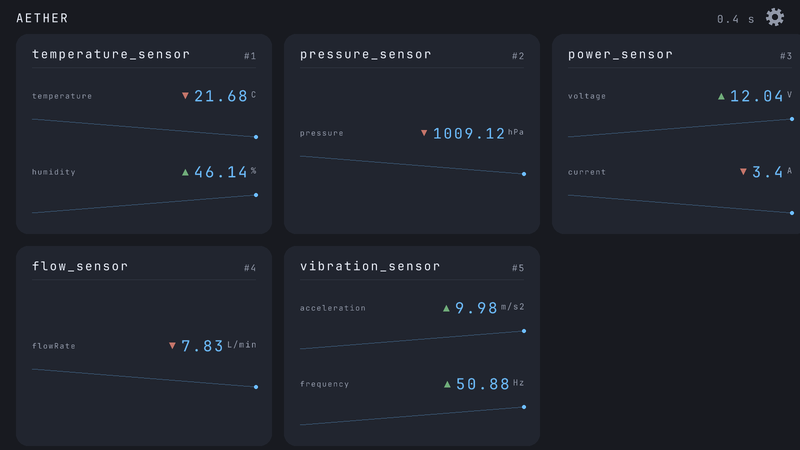
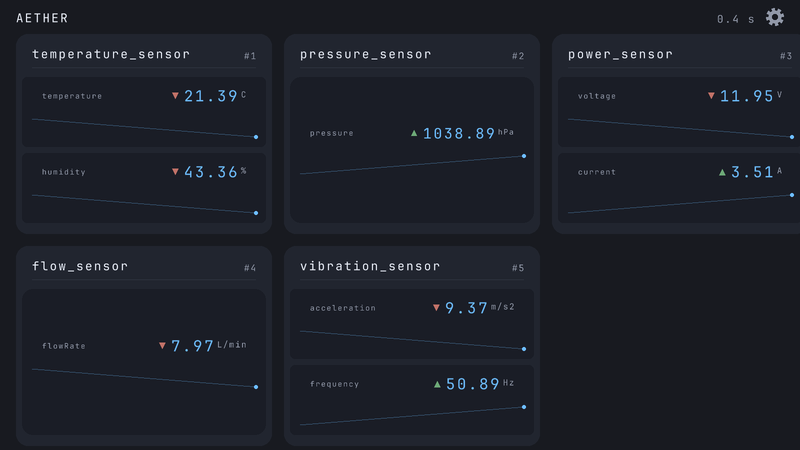
align README and demo media with current UI

diff --git a/README.md b/README.md
@@ -15,8 +15,9 @@ Aether is a small C application that simulates sensor readings and displays them
 
 - Load any number of sensors from a YAML config, each with an arbitrary
   list of named metrics carrying units (`temperature (C)`, `pressure (hPa)`, ...)
-- Adaptive card grid with sparklines, animated values, and up/down
-  change indicators
+- Adaptive card grid: each metric renders as a chip with its value,
+  sparkline, and up/down change indicator
+- Card detail view with large trend lines and min/avg/max stats per metric
 - Tabbed navigation: a tab holds as many cards as fit the window;
   overflow goes to numbered tabs (`1 2 ... N`), clickable and bound to
   `Alt/Cmd + 1..9`
@@ -24,7 +25,8 @@ Aether is a small C application that simulates sensor readings and displays them
   indicators at runtime
 - Fixed-slot task scheduler decoupled from data handling
 - Bounded per-sensor reading history (ring buffers)
-- Unit tests for configuration, history, scheduler, and sensor modules
+- Unit tests for configuration, history, scheduler, sensor, and
+  dashboard layout modules
 
 ## Demo
 
@@ -87,9 +89,11 @@ make test
 The test suite covers:
 
 - sensor initialization and simulated updates;
-- reading history ordering and oldest-entry eviction;
+- reading history ordering, oldest-entry eviction, and metric statistics;
 - task scheduling;
-- YAML configuration loading.
+- YAML configuration loading, including malformed input, unknown keys,
+  missing ids, and growing registries;
+- dashboard layout math: tab capacity, pagination limits, and range mapping.
 
 ## Configuration
 
@@ -146,7 +150,7 @@ Note: a `%` unit must be quoted (`"%"`) because libyaml reserves the percent sig
 ├── History/      Bounded per-sensor reading history (ring buffer)
 ├── scheduler/    Periodic task scheduling
 ├── sensor/       Sensor data types and simulation
-├── ui/           Dashboard rendering, theme tokens (Raylib)
+├── ui/           Dashboard rendering, layout math, theme tokens (Raylib)
 ├── tests/        Unit tests
 ├── main.c        Application entry point
 └── Makefile      Build and test commands
